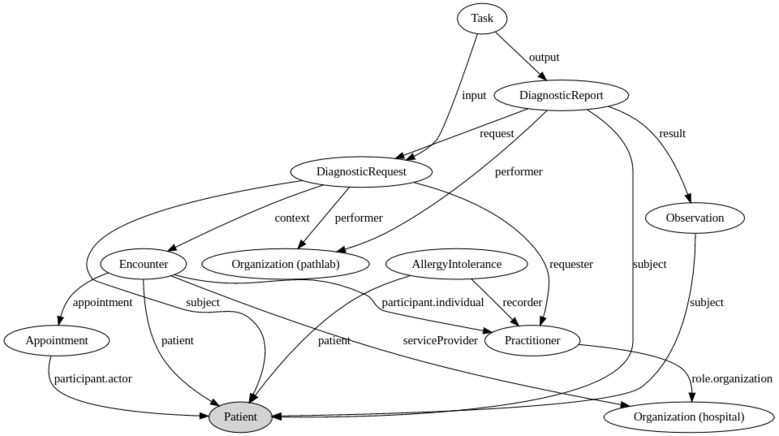
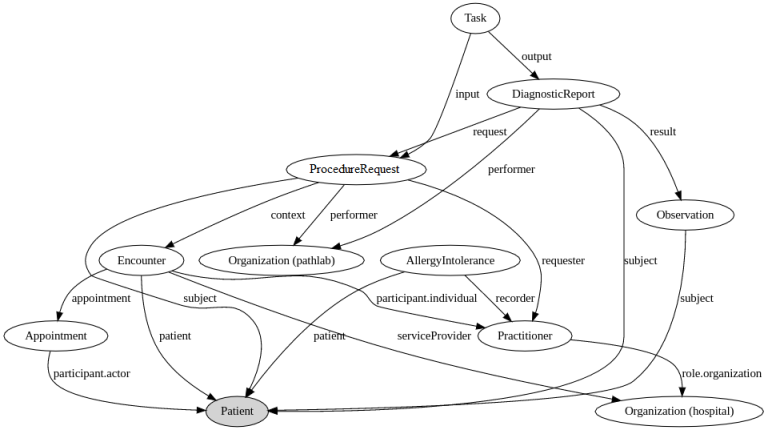
Updated links and imagines in the FHIR exercises pages.

diff --git a/sam-fhir-journey.html b/sam-fhir-journey.html
@@ -114,7 +114,7 @@
 							</ul>
 
 							<h5 id="sam-description">Step 1: Exercise description</h5>
-							<p>Sam, our <a href="http://hl7.org/fhir/2017Jan/patient.html">Patient</a> with a known allergy (<a href="http://hl7.org/fhir/2017Jan/patient.html">AllergyIntolerance</a>) has an <a href="http://hl7.org/fhir/2017Jan/appointment.html">Appointment</a> at a hospital (<a href="http://hl7.org/implement/standards/fhir/2017Jan/organization.html">Organization</a>) which results in a hospital <a href="http://hl7.org/fhir/2017Jan/encounter.html">Encounter</a>. The doctor (<a href="http://hl7.org/fhir/2017Jan/practitioner.html">Practitioner</a>), who previously recorded Sams allergy, examines Sam and notices an allergy to fish, so he orders a test to be done (<a href="http://hl7.org/fhir/2017Jan/diagnosticrequest.html">DiagnosticRequest</a>) at the pathology lab (<a href="http://hl7.org/implement/standards/fhir/2017Jan/organization.html">Organization</a>). The hospitals system tracks this request using a <a href="http://hl7.org/fhir/2017Jan/task.html">Task</a>, so the doctor can check the task at any time to see if there's been any progress made. When the pathology lab performs its analysis, it records 'Hemoglobin' result as an <a href="http://hl7.org/fhir/2017Jan/observation.html">Observation</a> in its 'Complete blood count' <a href="http://hl7.org/fhir/2017Jan/diagnosticreport.html">DiagnosticReport</a> which is send to the FHIR server of the hospital. The pathology lab system updates the Task with the DiagnosticReport and notifies the doctor that results are available.</p>
+							<p>Sam, our <a href="http://hl7.org/fhir/STU3/patient.html">Patient</a> with a known allergy (<a href="http://hl7.org/fhir/STU3/allergyintolerance.html">AllergyIntolerance</a>) has an <a href="http://hl7.org/fhir/STU3/appointment.html">Appointment</a> at a hospital (<a href="http://hl7.org/implement/standards/fhir/STU3/organization.html">Organization</a>) which results in a hospital <a href="http://hl7.org/fhir/STU3/encounter.html">Encounter</a>. The doctor (<a href="http://hl7.org/fhir/STU3/practitioner.html">Practitioner</a>), who previously recorded Sams allergy, examines Sam and notices an allergy to fish, so he orders a test to be done (<a href="http://hl7.org/fhir/STU3/procedurerequest.html">ProcedureRequest</a>) at the pathology lab (<a href="http://hl7.org/implement/standards/fhir/STU3/organization.html">Organization</a>). The hospitals system tracks this request using a <a href="http://hl7.org/fhir/STU3/task.html">Task</a>, so the doctor can check the task at any time to see if there's been any progress made. When the pathology lab performs its analysis, it records 'Hemoglobin' result as an <a href="http://hl7.org/fhir/STU3/observation.html">Observation</a> in its 'Complete blood count' <a href="http://hl7.org/fhir/STU3/diagnosticreport.html">DiagnosticReport</a> which is send to the FHIR server of the hospital. The pathology lab system updates the Task with the DiagnosticReport and notifies the doctor that results are available.</p>
                             
                             <p>Ok, so maybe this doctor and pathology lab have no idea about healthcare, a 'Complete blood count' with only a single 'Hemoglobin' result for a Fish allergy. Sounds very fishy to me!</p>
 							

diff --git a/terminology-exercise.html b/terminology-exercise.html
@@ -115,11 +115,11 @@
 							</ul>
 
 							<h5 id="step1">Step 1: Create a CodeSystem</h5>
-							<p>Create a <a href="http://hl7.org/fhir/2017Jan/codesystem.html">CodeSystem</a> resource with various codes for the human emotional state (ie 'happy, 'sad', etc.) - try to choose an original list, as that'll help you later on. Feel free to refresh your CodeSystem knowledge with the <a href="ValueSet-And-CodeSystem.html">terminology tutorial</a> if need be, or just ask us should you get stuck. Once finished, upload your CodeSystem resource to the specified FHIR terminology server.</p>
+							<p>Create a <a href="http://hl7.org/fhir/STU3/codesystem.html">CodeSystem</a> resource with various codes for the human emotional state (ie 'happy, 'sad', etc.) - try to choose an original list, as that'll help you later on. Feel free to refresh your CodeSystem knowledge with the <a href="ValueSet-And-CodeSystem.html">terminology tutorial</a> if need be, or just ask us should you get stuck. Once finished, upload your CodeSystem resource to the specified FHIR terminology server.</p>
 							<h5 id="step2">Step 2: Create a ValueSet</h5>
-							<p>Create a <a href="http://hl7.org/fhir/2017Jan/valueset.html">ValueSet</a> resource that contains some or all of the codes from your CodeSystem - include at minimum 3-4 codes so there's something to work with. Try also to experiment with overriding some descriptions of codes in the CodeSystem by supplying your own descriptions in the ValueSet. Once done, upload the ValueSet and save the server-assigned ID, as you'll use it for some operations next.</p>
+							<p>Create a <a href="http://hl7.org/fhir/STU3/valueset.html">ValueSet</a> resource that contains some or all of the codes from your CodeSystem - include at minimum 3-4 codes so there's something to work with. Try also to experiment with overriding some descriptions of codes in the CodeSystem by supplying your own descriptions in the ValueSet. Once done, upload the ValueSet and save the server-assigned ID, as you'll use it for some operations next.</p>
 							<h5 id="step3">Step 3: Perform an $expand on your ValueSet</h5>
-							<p>Run the <a href="http://hl7.org/fhir/2017Jan/valueset-operations.html#expand">$expand</a> operation on your ValueSet to see final rendering of your codes. Here you'll see the final descriptions of your codes - either from the CodeSystem, or if provided in the ValueSet, from the ValueSet.</p>
+							<p>Run the <a href="http://hl7.org/fhir/STU3/valueset-operations.html#expand">$expand</a> operation on your ValueSet to see final rendering of your codes. Here you'll see the final descriptions of your codes - either from the CodeSystem, or if provided in the ValueSet, from the ValueSet.</p>
 							<p>Try out some parameters of $expand as well - use the 'filter' parameter to limit your expansion to a few select codes.</p>
 							<h5 id="step4">Step 4: Create a ConceptMap mapping</h5>
 							<p>Find a partner and create a ConceptMap mapping from your ValueSet to your buddy's ValueSet. Since the valuesets are built around the same theme, they'll likely be similar yet different enough to be able to create a mapping. Upload the completed ConceptMap and save the server-assigned ID.</p>

diff --git a/exercises.html b/exercises.html
@@ -107,7 +107,7 @@
                             <h4>FHIR<sup>®</sup> group exercises</h4> 
                             <p>This set of pages is designed for a group connectathon setting to do together with other people. At present these group exercises are in their beta stage of development and we would appreciate any feedback you may have.</p>
                             
-                            <p>Please note these tutorials have been written against a version of FHIR, based on the <a href="http://hl7.org/fhir/2017Jan/">January 2017 snapshot</a> - 1.8.0.</p>
+                            <p>Please note these tutorials have been written against a version of FHIR, based on the <a href="http://hl7.org/fhir/STU3/">FHIR release 3 (STU)</a> - 3.0.0</p>
                             
                             <p>To continue, use the tabs left of the page and work through the exercises from top to bottom starting with the <a href="./terminology-exercise.html">Terminology exersize</a>.</p>
 						</div>
